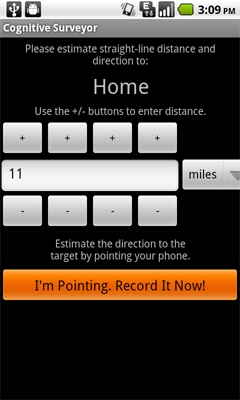
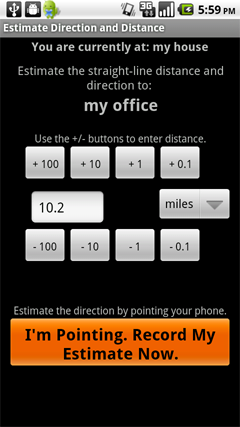
updated tutorial

diff --git a/public/study/images_howto.html b/public/study/images_howto.html
@@ -1,11 +1,9 @@
 <h1>Instructions for how to use Cognitive Surveyor</h1>
-<p>Please follow these instructions to begin using the Cognitive Surveyor application. They will also explain the direction/distance estimation task you will be asked to repeat throughout the week.</p>
-
-<p>Note that to complete this tutorial, you will need to visit two different landmarks. This could be, for example, your home and your office, or your home and your regular supermarket. The locations are up to you. Please read through all the instructions before proceeding. You may also want to consider printing these out so that you can refer to the instructions when you visit your second landmark.</p>
+<p>Please follow these instructions to begin using the Cognitive Surveyor application. Note that to complete this tutorial, you will need to visit two different landmarks. This could be, for example, your home and your office, or your home and your regular supermarket. The locations are up to you. Please read through all the instructions before proceeding. You may also want to consider printing these out so that you can refer to the instructions when you visit your second landmark.</p>
 
 <p>If you have any questions or encounter problems, contact Drew Dara-Abrams (the experimenter) at any time: <a href="mailto:drew@geog.ucsb.edu">drew@geog.ucsb.edu</a> or (805) 680-7191.</p>
 
-<h2>1. <em>If you are using your own phone</em>: Install the Cognitive Surveyor app</h2>
+<h2>1. Install the Cognitive Surveyor app</h2>
 <p>Open the Android Market <img src="market-icon.png"/> on your phone, search for <em>Cognitive Surveyor</em>, and install this application.</p>
 <p>Add the Cognitive Surveyor icon <img src="cogsurv-icon.png"/> to your home screen. You will want to be able to start the Cognitive Surveyor app whenever you visit a landmark during the next week (more on this below). Either drag the Cognitive Surveyor icon to your home screen, or press the <em>Menu</em> button, select <em>Add</em>, select <em>Shortcuts</em>, select <em>Applications</em>, select <em>Cognitive Surveyor</em>, and press <em>Ok</em>.
 
@@ -15,28 +13,41 @@
 
 <h2>3. Mark your first landmark</h2>
 <p>Landmarks are places of personal relevance to you. For example, your home, your office, your regular grocery store, a friend's house, a favorite park. One of your two tasks in this study will be to mark landmarks using the Cognitive Surveyor app. This stores the location (latitude and longitude) of the landmark, along with the time that you are visiting the landmark.</p>
-<p>To mark your first landmark, press the <em>Mark a Landmark</em> button and type in the name of the landmark. Note that as shown in the screenshot below, the satellite dish icon should start to flash at the top of the screen. This indicates that the GPS is being used to determine your location. If the satellite icon does not appear at all you may need to turn on the GPS unit. <a href="turn_on_gps.html">Here are instructions for how to do that.</a></p>
+<p>Whenever you are at a landmark, press the <em>Visit a Landmark</em> button. In the future, when you return to a landmark that you have already marked, you will be able to select it from this list. When you are at a landmark that you have not yet marked--right now, in other words--you should instead press the <em>Mark a New Landmark</em> button.</p>
+<p>So assuming you are now at a place of personal relevance, press the <em>Mark a New Landmark</em> button and then type in the landmark's name. Note that as shown in the screenshot below, the satellite dish icon should start to flash at the very top of the screen. This indicates that the GPS is being used to determine your location. If the satellite icon does not appear at all you may need to turn on the GPS unit. <a href="turn_on_gps.html">Here are instructions for how to do that.</a></p>
+<p>(To get the best GPS signal, you should be standing outdoors. If you are marking a building as a landmark, it's probably best to mark it when you are standing outside the front door. But worst case, you will have the option to correct the position of a landmark when you view your results at the end of the week.)</p>
 
 <img src="mark-a-landmark.png"/>
 
-<p>Once you press <em>Mark It</em> the landmark will be saved.</p>
+<p>Once you press <em>Mark this New Landmark</em> the landmark will be saved.</p>
 
-<p>The next step is to mark your second landmark, but obviously you can't do this in the same place. Please wait to do Step #4 until you're at a new place.</p>
+<p>Now that you have indicated your visit to the landmark, you will be presented with three options. Please, whenever you are not in a rush, select the first by clicking on the <em>I am ready to estimate directions and distances</em> button. But keep in mind that you can press the second button if you have no more time, or you can press the third button if you accidentally selected the wrong landmark.</p>
+  
+<img src="landmark-visit-options.png"/>
 
-<h2>4. Mark your second landmark and complete your first direction/distance estimates</h2>
-<p>When you've arrived at a second landmark, repeat the process of pressing the <em>Mark a Landmark</em> button and typing in its name.</p>
-<p>After pressing <em>Mark It</em> you will be asked to do the second of the two tasks that make up this experiment: estimating the direction and distance between your landmarks. This makes use of the digital compass inside your Android phone. The compass needs to be calibrated often, because it isn't that precise. Please calibrate the compass by waving your phone around in a figure-eight pattern, <a href="http://www.youtube.com/watch?v=sP3d00Hr14o" target="_new">as shown in this video</a>. Also when you do estimates, please make sure that you are away from large metallic objects or power transformers. It's best to do the estimates outside in order to minimize magnetic interference.</p>
-<img src="calibrate.png"/>
-<p>After calibrating the compass, you will be asked to estimate the direction and distance from your second landmark back to your first. To estimate the distance, press the + and - buttons to add or remove distance units. The buttons on the far left add/subtract 100, the next buttons add/subtract 10, and so on. By default, you are asked to estimate the distance in miles, but you can tap on the distance units to change to kilometers, feet, or meters. It's your choice. Your distance estimate should be a straight line "as the crow flies" from your current location to the target landmark.</p>
-<p>To estimate the direction, point the phone in the appropriate direction. The internal compass will record your exact pointing direction. Once you have keyed in your distance estimate and when you are holding the phone pointing in the appropriate direction, press <em>I'm Pointing. Record It Now!</em> to complete the process.</p>
+<p>In the future, when you have more than one landmark marked, you will be asked to estimate the directions and distances to those other landmarks. For now, you are only asked to estimate the direction to north. This makes use of the digital compass inside your Android phone. The compass needs to be calibrated often, because it isn't that precise. Please calibrate the compass by waving your phone around in a figure-eight pattern, <a href="http://www.youtube.com/watch?v=sP3d00Hr14o" target="_new">as shown in this video</a>. Also when you do estimates, please make sure that you are away from large metallic objects or power transformers. It's best to do the estimates outdoors, before entering a building, in order to minimize magnetic interference. When you have finished waving the phone around (for one or two seconds), you can press the <em>Done</em> button.</p>
+
+<p>Now, hold out the phone straight ahead and aim it (and your body) in the direction in which you think north lies. Keeping the phone relatively level, press the <em>Record</em> button.</p>
+
+<img src="north-pointing.png"/>
+
+<p>You're all done for now. You can put your phone to sleep or use it for other things, until you visit another landmark.</p>
+
+
+<h2>4. Mark your second landmark and complete your first real set of direction/distance estimates</h2>
+<p>When you've arrived at a second landmark later in the day, repeat the process of starting the Cognitive Surveyor app, pressing the <em>Visit a Landmark</em> button, then pressing the <em>Mark a New Landmark</em> button, and typing in its name.</p>
+<p>After pressing the <em>I am ready to estimate directions and distances</em> button you will be asked to do the second of the two tasks that make up this experiment: estimating the direction and distance between your landmarks.</p>
+<p>After calibrating the compass (don't forget to wave the phone around, just like before), you will be asked to estimate the direction and distance from your second landmark back to your first. To estimate the distance, press the + and - buttons to add or remove distance units. By default, you are asked to estimate the distance in miles, but you can tap on the distance units to change to kilometers, feet, or meters. It's your choice. Your distance estimate should be a straight line "as the crow flies" from your current location to the target landmark.</p>
+<p>To estimate the direction, point the phone in the appropriate direction. The internal compass will record your exact pointing direction. Once you have keyed in your distance estimate and when you are holding the phone pointing in the appropriate direction, press the <em>I'm Pointing. Record It Now.</em> button to complete the process.</p>
 <img src="estimates.png"/>
-<p>You will now be asked to estimate the direction toward north. Take your best guess and again point with the phone.</p>
-<p>During the week of the study, when you mark new landmarks or visit landmarks that you have already marked, you will be asked to repeat this process of estimating directions and distances. Please give it careful thought and don't forget to calibrate the compass, but the point of the study is to collect many of these estimates. It's O.K. if you make a mistake because there will probably be another opportunity to make the estimate again.</p>
+<p>You will again be asked to estimate the direction toward north. Take your best guess and point with the phone as before.</p>
+<p>During the week of the study, when you mark new landmarks or visit landmarks that you have already marked, you will be asked to repeat this process of estimating directions and distances. Please give it careful thought and don't forget to calibrate the compass, but the point of the study is to collect many of these estimates. It's O.K. if you make a mistake because there will probably be another opportunity to make the estimate again. As you mark more landmarks, you will be asked to make an increasing number of estimates. Of course, the more you can complete, the better. But if you are in a rush, you can press the menu button on your Android phone and select <em>Skip the Rest of the Estimates</em>. This will take you right to the final north estimate.</p>
 
 <h2>5. Visit an existing landmark</h2>
-<p>When you return to a landmark that you have already marked--for example, you return to your home at the end of the day--press the <em>Visit a Landmark</em> button and select your current location from the list of landmarks. This records the time of your visit and begins the process of direction and distance estimates.</p>
-<p>If you do not have enough time to complete all of the direction and distance estimates, you can press the <em>Back</em> button on your phone to end the estimation process early. It's better that you complete one or two estimates than you skip the entire process because of time constraints.</p>
+<p>During the course of the week, when you return to a landmark that you have already marked--for example, you return to your home at the end of the day--start the Cognitive Surveyor app, press the <em>Visit a Landmark</em> button, and select your current location from the list of landmarks. This records the time of your visit and begins the process of direction and distance estimates.</p>
 
 <h2>6. Repeat for the rest of the week</h2>
-<p>As you travel around during the week of the study, please continue to mark new landmarks, visit existing ones, and estimate directions and distances between them. The more of these piecemeal data points you are able to contribute, the better the results of the study will be.</p>
-<p>Drew will check your results and confirm that it's all being recorded properly. Please feel free to ask questions at any time. If your phone reports any errors or the Cognitive Surveyor app crashes, please make note of the exact time and let Drew know. He'll be able to diagnose the problem and (hopefully) fix it promptly. Thank you very much for your involvement in this research!</p>
+<p>As you travel around during the week of the study, please continue to mark new landmarks, visit existing ones, and estimate directions and distances between them. The more of these piecemeal data points you are able to contribute, the better the results of the study will be. But there is no need to change your travel patterns or visit any more landmarks than you would in an ordinary week.</p>
+<p>Drew will check your results and confirm that it's all being recorded properly. Please feel free to ask questions at any time. If your phone reports any errors or the Cognitive Surveyor app crashes, please make note of the exact time and let Drew know. He'll be able to diagnose the problem and (hopefully) fix it promptly.</p>
+<p>On the seventh day of your participation, please return to the Web site. You will have the opportunity to view your results and you will be asked to complete a brief, final questionnaire.</p>
+<p>Thank you very much for your involvement in this research!</p>
